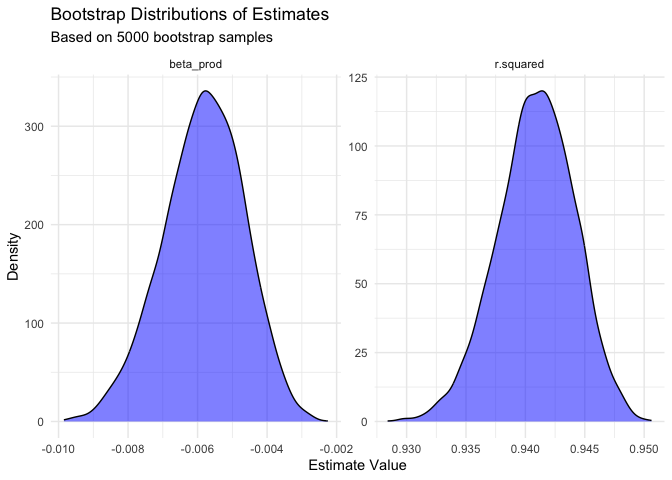
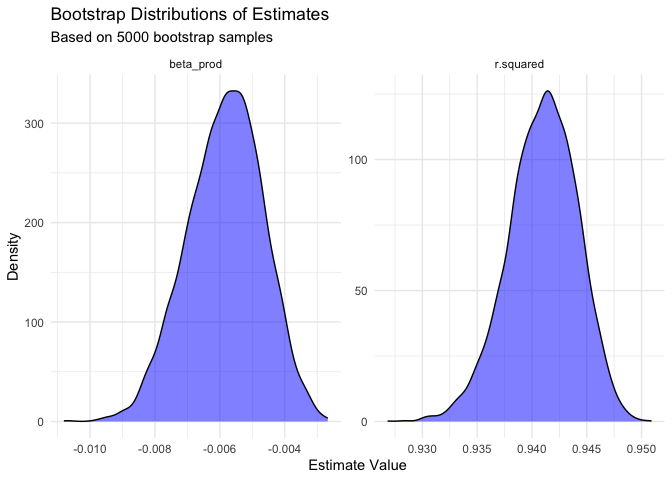
set seed

diff --git a/p8105_hw6_zn2220.md b/p8105_hw6_zn2220.md
@@ -243,6 +243,8 @@ weather_data =
   select(tmax, tmin, prcp) %>% 
   drop_na()
 
+set.seed(235)
+
 boot_straps = 
   weather_data %>% 
   bootstrap(n = 5000) %>% 
@@ -282,16 +284,16 @@ print(boot_results)
     ## # A tibble: 10,000 × 3
     ##    .id   term      estimate
     ##    <chr> <chr>        <dbl>
-    ##  1 0001  r.squared  0.941  
-    ##  2 0001  beta_prod -0.00643
-    ##  3 0002  r.squared  0.941  
-    ##  4 0002  beta_prod -0.00631
-    ##  5 0003  r.squared  0.943  
-    ##  6 0003  beta_prod -0.00751
-    ##  7 0004  r.squared  0.936  
-    ##  8 0004  beta_prod -0.00455
-    ##  9 0005  r.squared  0.945  
-    ## 10 0005  beta_prod -0.00778
+    ##  1 0001  r.squared  0.944  
+    ##  2 0001  beta_prod -0.00739
+    ##  3 0002  r.squared  0.942  
+    ##  4 0002  beta_prod -0.00490
+    ##  5 0003  r.squared  0.939  
+    ##  6 0003  beta_prod -0.00542
+    ##  7 0004  r.squared  0.942  
+    ##  8 0004  beta_prod -0.00627
+    ##  9 0005  r.squared  0.942  
+    ## 10 0005  beta_prod -0.00675
     ## # ℹ 9,990 more rows
 
 ## Plot the distribution of your estimates, and describe these in words.
@@ -347,8 +349,8 @@ knitr::kable(ci_results)
 
 | term      |   ci_lower |   ci_upper |
 |:----------|-----------:|-----------:|
-| beta_prod | -0.0082628 | -0.0036844 |
-| r.squared |  0.9342782 |  0.9468756 |
+| beta_prod | -0.0081966 | -0.0037260 |
+| r.squared |  0.9344262 |  0.9466447 |
 
 - beta_prod (Significant Negative Effect):  
   The 95% confidence interval for
